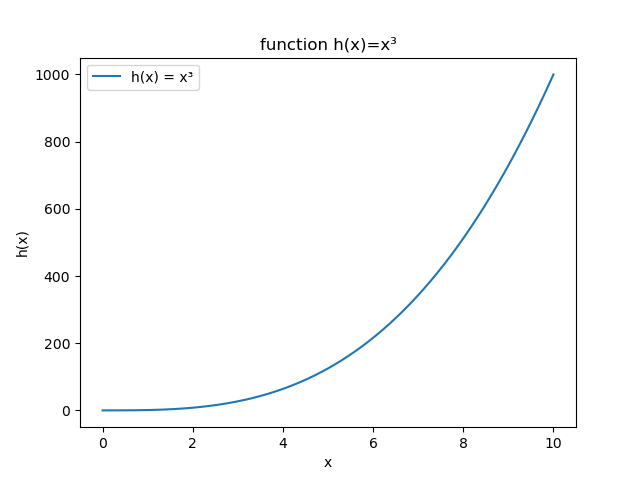
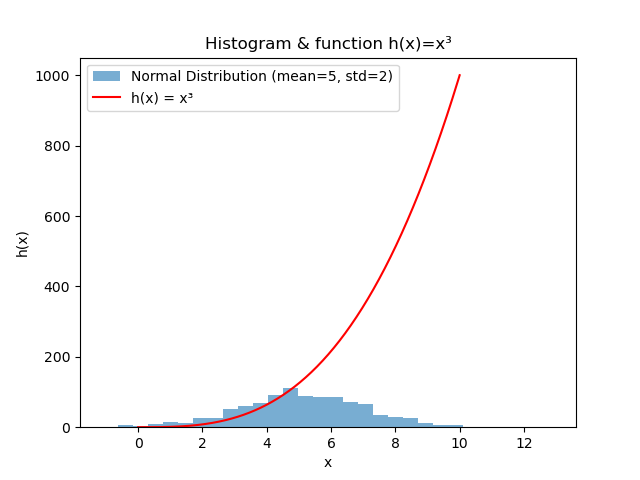
pands-weekly-tasks

diff --git a/plottask.py b/plottask.py
@@ -7,26 +7,31 @@
 import numpy as np
 import matplotlib.pyplot as plt
 
-
+# Create figure and axis
 fig, ax = plt.subplots()
 
-'''
+# Generate normal distribution data.
 np.random.seed(1) 
 normal_dist = np.random.normal(5.0, 2.0, 1000)
 
-plt.hist(normal_dist)
-plt.show()
+# Plot histogram on the same axes.
+ax.hist(normal_dist, bins=30, alpha=0.6, label= 'Normal Distribution (mean=5, std=2)')
 
-'''
-
+# Generate x values for h(x) = x³
 x = np.linspace(0.0, 10.0, 400)
 h = x**3
 
-ax.plot(x, h, label= 'h(x) = x³')
-ax.set_title('function h(x)=x³')
+# Plot the function on the same axes
+ax.plot(x, h, color= 'red', label= 'h(x) = x³')
+
+# Set title and labels
+ax.set_title('Histogram & function h(x)=x³')
 ax.set_xlabel('x')
 ax.set_ylabel('h(x)')
+
+# Show legend
 ax.legend()
 
+# Saves and shows the figure
 plt.savefig('WT8_functionplot')
-
+plt.show()

diff --git a/README.md b/README.md
@@ -1,24 +1,31 @@
 # pands-weekly-tasks
 
-This repository is to fulfil the requirement of the weekly-tasks (WT) part of the inroduction to programming and scripting module.
+This repository is to fulfil the requirement of the weekly-tasks (WT) part of the inroduction to *Programming and Scripting module*.
+
+# Contents
 
 The repository contains the follwoing tasks:
 
--   WT1 : helloworld.py 
--   WT2 : bank.py 
--   WT3 : accounts.py
--   WT4 : collatz.py
--   WT5 : weekday.py
--   WT6 : squareroot.py
--   WT7 : es.py
--   WT8 : plottask.py
+-   WT1 : helloworld.py – Prints the famous "helloworld".
+-   WT2 : bank.py – reads in two amounts in cents and prints out their sum in euros.  
+-   WT3 : accounts.py – reads in 10 digit account number outputs last 4 digits and the rest is replaced with Xs.     
+-   WT4 : collatz.py – Implements the Collatz conjecture for a given number.
+-   WT5 : weekday.py – Determines if today is a weekday or weekend.
+-   WT6 : squareroot.py –Approximates the square root of a number using Newton's method.
+-   WT7 : es.py – reads in a text file form the command line and outputs the number of e's it contains.
+-   WT8 : plottask.py – plots a histogram of a normal distribution and adds a function line.
 
-Each of the program files above lists the following:
--   a brief descripiton about the functions it does,
--   notes explaining the code functions, and 
--   references
+Each Python file includes:
+-   a brief descripiton of the task
+-   notes explaining the code functions
+-   references to any resources used.
 
 # References
+Lecture notes, videos and labs from the course
+
+https://realpython.com/
+
+https://www.w3schools.com/
 
 
 
